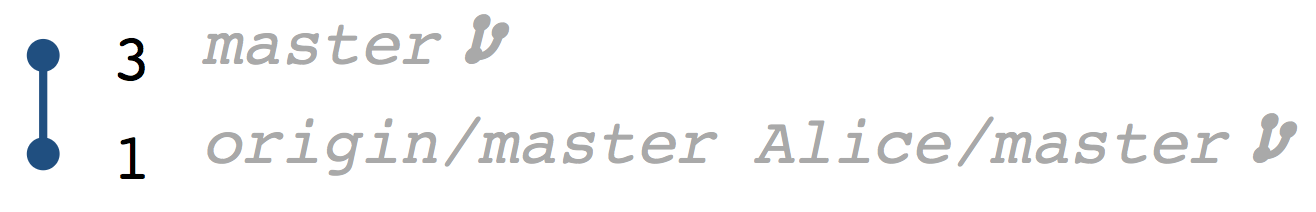
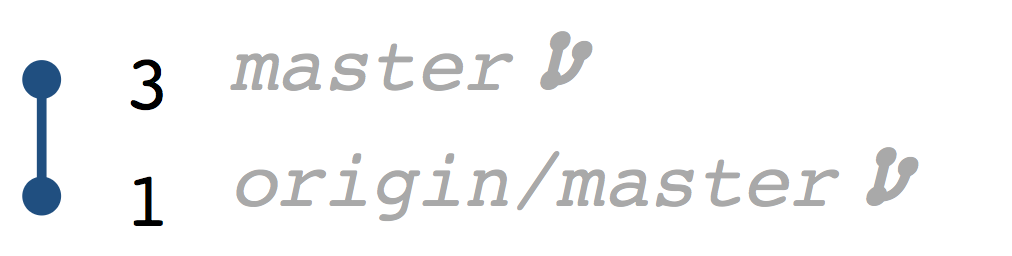
Updating foxtrot figure

diff --git a/thesis/chapters/Background.tex b/thesis/chapters/Background.tex
@@ -729,8 +729,8 @@ branch is the foxtrot merge.
     \textit{Origin}.}
     \\
     \includegraphics[width=0.27\textwidth]{Figures/background/foxtrot/alice_1.png} &
-    \includegraphics[width=0.27\textwidth]{Figures/background/foxtrot/remote_1.png} &
-    \includegraphics[width=0.27\textwidth]{Figures/background/foxtrot/remote_1.png} \\
+    \includegraphics[width=0.27\textwidth]{Figures/background/foxtrot/origin_1.png} &
+    \includegraphics[width=0.27\textwidth]{Figures/background/foxtrot/alice_1.png} \\
 
     \tiny{Alice makes some changes and commits them to her local repository.}
 
@@ -741,7 +741,7 @@ branch is the foxtrot merge.
     \\
 
     \includegraphics[width=0.27\textwidth]{Figures/background/foxtrot/alice_2.png} &
-    \includegraphics[width=0.27\textwidth]{Figures/background/foxtrot/remote_1.png} &
+    \includegraphics[width=0.27\textwidth]{Figures/background/foxtrot/origin_1.png} &
     \includegraphics[width=0.27\textwidth]{Figures/background/foxtrot/bob_2.png} \\
 
     \tiny{Alice pushes her changes back into the master branch of the remote
@@ -751,8 +751,8 @@ branch is the foxtrot merge.
     \tiny{Bob is not made aware of these changes yet.} \\
 
 
-    \includegraphics[width=0.27\textwidth]{Figures/background/foxtrot/alice_3.png} &
-    \includegraphics[width=0.27\textwidth]{Figures/background/foxtrot/remote_2.png} &
+    \includegraphics[width=0.27\textwidth]{Figures/background/foxtrot/alice_2.png} &
+    \includegraphics[width=0.27\textwidth]{Figures/background/foxtrot/origin_2.png} &
     \includegraphics[width=0.27\textwidth]{Figures/background/foxtrot/bob_2.png} \\
 
     &
@@ -760,8 +760,8 @@ branch is the foxtrot merge.
     \tiny{Bob attempts to push, but this results in a merge conflict.}
     \\
 
-    \includegraphics[width=0.27\textwidth]{Figures/background/foxtrot/alice_3.png} &
-    \includegraphics[width=0.27\textwidth]{Figures/background/foxtrot/remote_2.png} &
+    \includegraphics[width=0.27\textwidth]{Figures/background/foxtrot/alice_2.png} &
+    \includegraphics[width=0.27\textwidth]{Figures/background/foxtrot/origin_2.png} &
     \includegraphics[width=0.27\textwidth]{Figures/background/foxtrot/bob_3.png} \\
 
     &
@@ -770,8 +770,8 @@ branch is the foxtrot merge.
     branch into Bob's master branch.}
     \\
 
-    \includegraphics[width=0.27\textwidth]{Figures/background/foxtrot/alice_3.png} &
-    \includegraphics[width=0.27\textwidth]{Figures/background/foxtrot/remote_2.png} &
+    \includegraphics[width=0.27\textwidth]{Figures/background/foxtrot/alice_2.png} &
+    \includegraphics[width=0.27\textwidth]{Figures/background/foxtrot/origin_2.png} &
     \includegraphics[width=0.27\textwidth]{Figures/background/foxtrot/bob_4.png} \\
 
     &
@@ -779,17 +779,16 @@ branch is the foxtrot merge.
     &
     \\
 
-    \includegraphics[width=0.27\textwidth]{Figures/background/foxtrot/alice_3.png} &
-    \includegraphics[width=0.27\textwidth]{Figures/background/foxtrot/remote_3.png} &
+    \includegraphics[width=0.27\textwidth]{Figures/background/foxtrot/alice_2.png} &
+    \includegraphics[width=0.27\textwidth]{Figures/background/foxtrot/origin_3.png} &
     \includegraphics[width=0.27\textwidth]{Figures/background/foxtrot/bob_4.png} \\
 
   \end{tabulary}
-
   \caption{The sequence of steps that are part of the foxtrot, from the
   point of view of each repository. Alice's commit is pushed to the
-  master branch, but as a result of the foxtrot, ends up being merged
-  into the master branch.}
-\label{fig:FoxtrotSteps}
+  master branch, but as a result of the foxtrot, in the end appears to
+  be merged into the master branch.}
+  \label{fig:FoxtrotSteps}
 \end{figure}
 
 The effect of this can have different repercussions depending on the
